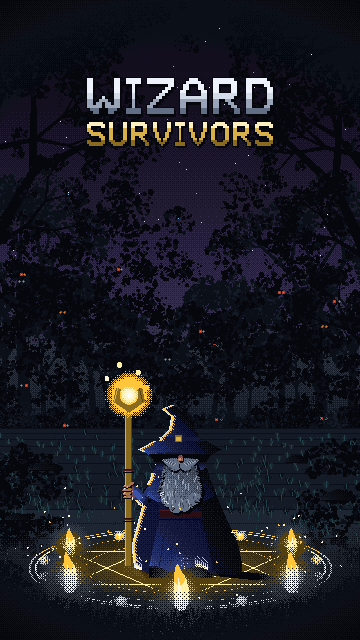
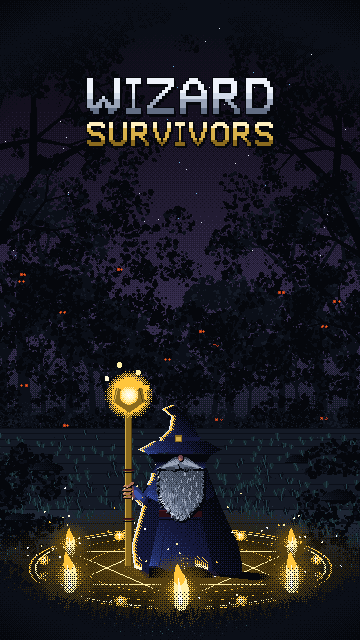
art: ship mane-spear, hung under the moustache
The beard starts at -22.35 rather than the -23.60 the rest of the set
shares, so it hangs from under the moustache instead of running up past it
to the cheekbones; the bottom drops the same amount so the length is
unchanged. What that buys is dark - the band the cheeks used to fill is
hood shadow now, and the face reads as a moustache and a nose coming out
of a void rather than a head of hair filling the brim.

The brim shadow runs to -22.30, a unit and a half lower than it did.
Almost all of the nose sits inside the fully dark band now and only its
underside comes back out, which is what takes it off being the loudest
thing on the face - shrinking it was not what did that, and it is only
half a unit smaller.

Changed region(s): [[0.4278, 0.7188, 0.5806, 0.8438]]

diff --git a/tools/art/hero.py b/tools/art/hero.py
@@ -457,13 +457,19 @@ def _b_fork(c, cx, yb, u, sk, rng, under):
 
 
 def _b_mane_spear(c, cx, yb, u, sk, rng, under):
-    """Mane held wide to the middle, then a long even run to a single point.
+    """Mane held wide to the middle, then a long even run to a single point. THE SHIPPING ONE.
 
     The taper is the whole length of the lower half, so the mass stays the subject and the
     point is where it arrives. Moustache swept out and DOWN to needles, which turns the head
     into one downward arrow: heavy first, sharp second.
+
+    It starts a unit and a quarter lower than the rest of the set - at -22.35 rather than the
+    shared -23.60 - so it hangs from under the moustache instead of running up past it to the
+    cheekbones. What that buys is dark: the band the cheeks used to fill is hood shadow now,
+    and the face is a moustache and a nose coming out of a void rather than a head of hair
+    filling the brim. The bottom drops the same amount, so the length is unchanged.
     """
-    rows = _rows(cx, yb, u, _BEARD_TOP, -11.20,
+    rows = _rows(cx, yb, u, -22.35, -10.20,
                  [(0.00, 3.10), (0.08, 4.30), (0.20, 5.00), (0.34, 5.20), (0.48, 4.95),
                   (0.62, 4.30), (0.74, 3.45), (0.85, 2.40), (0.94, 1.30), (1.00, 0.20)],
                  wob=0.075)
@@ -565,15 +571,18 @@ def _face(c, cx, yb, u, under=None, style="cascade"):
     _BEARDS[style](c, cx, yb, u, M["skin"], random.Random(30211), under)
     # One tone, not four. It was a body disc with a lit cap and a shaded spot set into it, and
     # at six pixels across that is three colours fighting over a shape the eye reads as one.
-    c.disc(cx + 1, yb - 23.50 * u + 1, 0.64 * u, 0.74 * u, OCC)
-    c.disc(cx, yb - 23.55 * u, 0.62 * u, 0.72 * u, s[2])
-    c.disc(cx - 0.14 * u, yb - 23.30 * u, 0.24 * u, 0.26 * u, s[1])
-    _hat_shadow(c, cx - 9 * u, yb - 25.4 * u, cx + 9 * u, yb - 21.0 * u,
-                yb - 24.30 * u, yb - 22.90 * u)
+    c.disc(cx + 1, yb - 23.50 * u + 1, 0.57 * u, 0.66 * u, OCC)
+    c.disc(cx, yb - 23.52 * u, 0.55 * u, 0.64 * u, s[2])
+    c.disc(cx - 0.12 * u, yb - 23.30 * u, 0.20 * u, 0.22 * u, s[1])
+    # The brim reaches a unit and a half further down than it used to, which is what keeps the
+    # nose from being the loudest thing on the face: almost all of it now sits inside the fully
+    # dark band, and only the underside of it comes back out.
+    _hat_shadow(c, cx - 9 * u, yb - 25.4 * u, cx + 9 * u, yb - 20.6 * u,
+                yb - 23.90 * u, yb - 22.30 * u)
 
 
 def wizard_hero(c, cx, yb, h=150, robe="wool", staff_ramp=None, cast=(1.5, 0.5),
-                under_ramp=None, beard="cascade"):
+                under_ramp=None, beard="mane-spear"):
     """Draw the figure from behind with its feet on yb. h scales the whole construction."""
     u = h / 32.0
     r = M[robe]

diff --git a/tools/art/splash.py b/tools/art/splash.py
@@ -80,7 +80,7 @@ def eyes_in_the_dark(c, y0, y1, n, seed, ramp=None, avoid=None):
 
 
 # ---------------------------------------------------------------- 1. VIGIL
-def vigil(beard="cascade"):
+def vigil(beard="mane-spear"):
     """Wide, quiet, bottom-heavy. You, from behind, inside a ring of lit wards, in the beat
     before it starts. Sells preparation rather than the fight - and it is the only screen
     where the player character is the largest thing on frame."""

diff --git a/.ai/title-screen.md b/.ai/title-screen.md
@@ -89,7 +89,8 @@ order bugs. Back to front:
 | Overhead boughs | the bough list in `vigil()` — origin, angle, length and width per limb |
 | Grass density and reach | the two grass loops in `vigil()`; one blade shape in `grass()` |
 | How enclosed the clearing feels | the brush loops in `vigil()` — treeline, then both floor edges |
-| How dark it is under the brim | the brim cast polygon in `hero.py` — that band *is* the face |
+| How dark it is under the brim | `_hood()` in `hero.py`, and the `_hat_shadow()` call at the foot of `_face()` — move the skip rect in `wizard_hero` with them |
+| **Which beard he wears** | `beard=` on `hero.wizard_hero`, and the default on `splash.vigil()`. Eight styles; `python tools/art/beards.py` renders them all into the screen |
 | Hand and finger size and tone | `_fingers` / `_arm` in `hero.py`; tones from the `flesh` ramp |
 | Branch forking, lean, hanging strands | `tree()` in `splashkit.py` |
 | **The colour of all wizard magic** | `WARD` at the top of `vigil()` — one name moves the orb, the rings, the motes and the light on the figure together |
@@ -157,17 +158,35 @@ two, the pointed version and the round one are worth thinking of as a real choic
 is, not a rendering detail.
 
 The beard is `skin`, the bone/pallor row — white hair and old bone are the same material in this
-palette — and it is **long, thick and round**:
+palette. It is **eight named styles sharing one renderer**, and `beard=` on `wizard_hero` picks
+one. They are genuine alternatives, not one shape with knobs on: the silhouette is the whole
+design at this size, so a style that differs by a couple of units of width is not a style.
 
-- **`_BEARD_PROFILE` is a half-width table**, `t=0` at the jaw to `t=1` at the tip: narrow where
-  the moustache covers it, widening to its full 4.3 units around three fifths down, closing in a
-  rounded tip rather than a fork.
-- **Length is most of the read.** It runs eleven units, past the mantle hem and most of the way
-  to the sash. The earliest versions were about half that, and a half-length beard reads as a
-  full beard rather than as a wizard's.
-- **Width has a ceiling, and it is the length.** Taken out to five units the profile made the
-  beard as wide as it is tall, and it stopped being a beard and became a ball; the shape needs
-  to stay clearly taller than it is wide however thick it gets.
+| Key | Shape | |
+|---|---|---|
+| `cascade` | broad straight fall past the belt, 13.4u | the only one that makes him taller rather than wider |
+| `storm` | blown 3.4u off the vertical, like the cloak | power in use rather than at rest |
+| `bound` | gathered in two gold bands, 12.2u | the only one that puts metal on him below the staff |
+| `mane` | one undivided mass, 10.6u wide | primal; sits right on the width ceiling |
+| `fork` | a mass splitting into two weighted points | the most legibly arcane |
+| `mane-spear` | **ships** — mane held wide, then a long taper to a point | heavy first, sharp second |
+| `mane-blade` | widest highest, straight sides to a chisel point | edged, the most predatory |
+| `mane-talon` | mane hooked off the vertical in its last third | a claw rather than wind |
+
+Render every style into the screen with **`python tools/art/beards.py`** (or name a few:
+`beards.py mane-spear mane-blade`). It writes to `tools/art/_beards/`, which is gitignored, and
+it never touches the shipping asset — only `splash.py` does that.
+
+`_rows()` turns a half-width profile plus an optional sweep into a stack of spans, and **both the
+outline and the texture come off that same list**, so feathering always lands on the edge and
+streaks always land inside it whatever the profile is doing. Everything below is enforced in
+`_mass()` and applies to all eight:
+
+- **Length is most of the read.** The shipping beard runs twelve units, past the mantle hem and
+  down to the belt. The earliest versions were about half that, and a half-length beard reads as
+  a full beard rather than as a wizard's.
+- **Width has a ceiling, and it is the length.** Taken out until it is as wide as it is tall, any
+  of these stops being a beard and becomes a ball. `mane` sits closest to that line deliberately.
 - **No ruled partings down the front.** Tried at four, eleven and thirteen across, in occlusion
   and in `deep`, ragged and even; at every count and every weight they read as ruling on a
   surface. Five fat capsules instead read as dreadlocks, and a field of ringed discs as bubbles.
@@ -175,22 +194,31 @@ palette — and it is **long, thick and round**:
   half, because **length is what turns a streak into a parting**.
 - **No keyline round the outside either.** A continuous `occ` line all the way round the profile
   reads as a shield boss hung on his chest: hair has no outline, it has an edge that breaks up.
-  The edge is ~58 short flicks instead, each leaving the profile by a quarter to half a unit —
-  at a unit and a half they are spines and the beard is a hedgehog.
-- **`_BEARD_LOBES` are contour, not features.** Four discs bulge a little past the profile near
-  the bottom so it is not one smooth arc. They take neither a keyline nor a lit cap: ringed,
-  they became four drawn circles; capped, four bubbles. A shallow cosine on `_bw()` undulates
-  the rest of the silhouette for the same reason.
-- **The moustache is a teardrop each side** — one `_capsule` run, fat at the nose and tapering to
-  a point out and up — sitting low enough to lie on the beard, in the beard's own values, with
-  its own feathering along the bottom. Every pale, high version read as two white slabs laid
-  across the face; a smooth shape on a hairy one reads as an object rather than as the same head
-  of hair. A capsule two units long with a one-unit radius is a rounded rectangle at this size.
-- **`_hat_shadow()` is a pass, not a shape.** The nose and moustache are drawn after the hood
-  void and over it, so without it they come out fully lit inside a shadow meant to be swallowing
-  the top of the face. It walks pixels and steps each one down its own material row, dithering
-  the boundary — and its map holds only `skin` and `flesh`, which is what keeps it off the hat
-  and the robe. One step, not two: at two the nose went black.
+  The edge is short flicks instead, each leaving the profile by a quarter to half a unit — at a
+  unit and a half they are spines and the beard is a hedgehog.
+- **The moustache is one tapering `_capsule` run per side**, in the beard's own values, with its
+  own feathering. Every pale, smooth version read as two slabs laid across the face; a smooth
+  shape lying on a hairy one never joins it.
+- **A capsule cannot come to a point**, because the smallest disc it draws is a pixel across and
+  the end is always a soft cap. `tip=` on `_must_run` carries a hard needle past the end by hand,
+  and `feather_span=` keeps the flicks off the outer 40% so they do not soften it back. Those two
+  arguments are the whole difference between a moustache that thins and one that ends.
+
+**The shipping beard starts low.** `mane-spear` opens at −22.35 rather than the −23.60 the rest
+of the set shares, so it hangs from *under* the moustache instead of running up past it to the
+cheekbones; its bottom drops the same amount, so the length is unchanged. What that buys is dark.
+The band the cheeks used to fill is hood shadow now, and the face reads as a moustache and a nose
+coming out of a void rather than as a head of hair filling the brim.
+
+- **`_hat_shadow()` is a pass, not a shape.** The nose and moustache are drawn after the hood void
+  and over it, so without it they come out fully lit inside a shadow meant to be swallowing the
+  top of the face. It walks pixels and steps each one down its own material row, dithering the
+  boundary — and its map holds only `skin` and `flesh`, which is what keeps it off the hat and
+  the robe. One step, not two: at two the nose went black.
+- It runs to −22.30, a unit and a half lower than it first did, which is what keeps the nose from
+  being the loudest thing on the face: almost all of it sits inside the fully dark band and only
+  its underside comes back out. **Shrinking the nose was not what fixed that** — extending the
+  shadow was.
 
 There is also **no clasp at the throat** any more. A gold disc sat there, and under the hood
 shadow with nothing else below it, a warm rounded shape at chin height reads as a chin.
